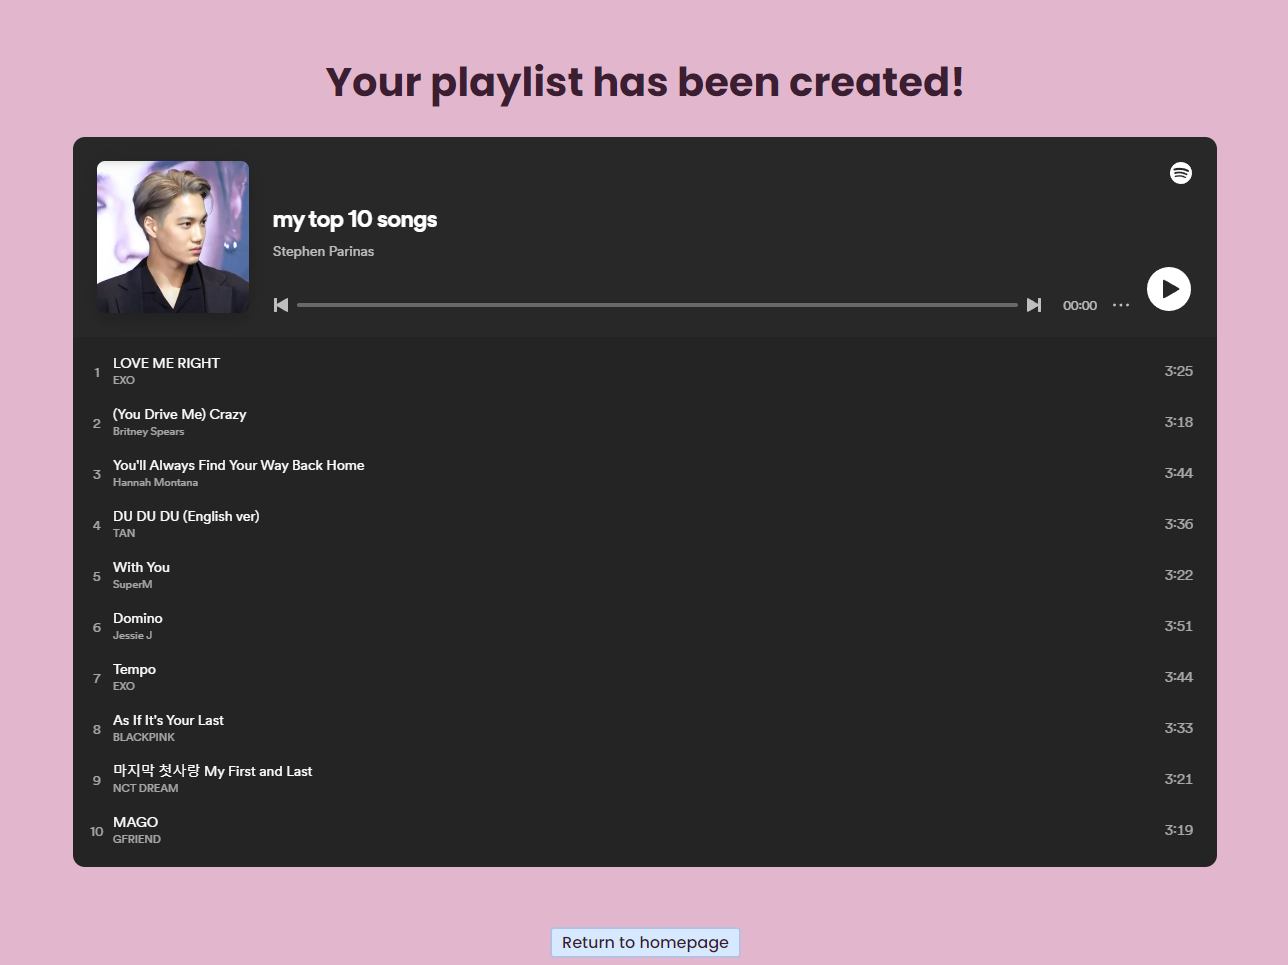
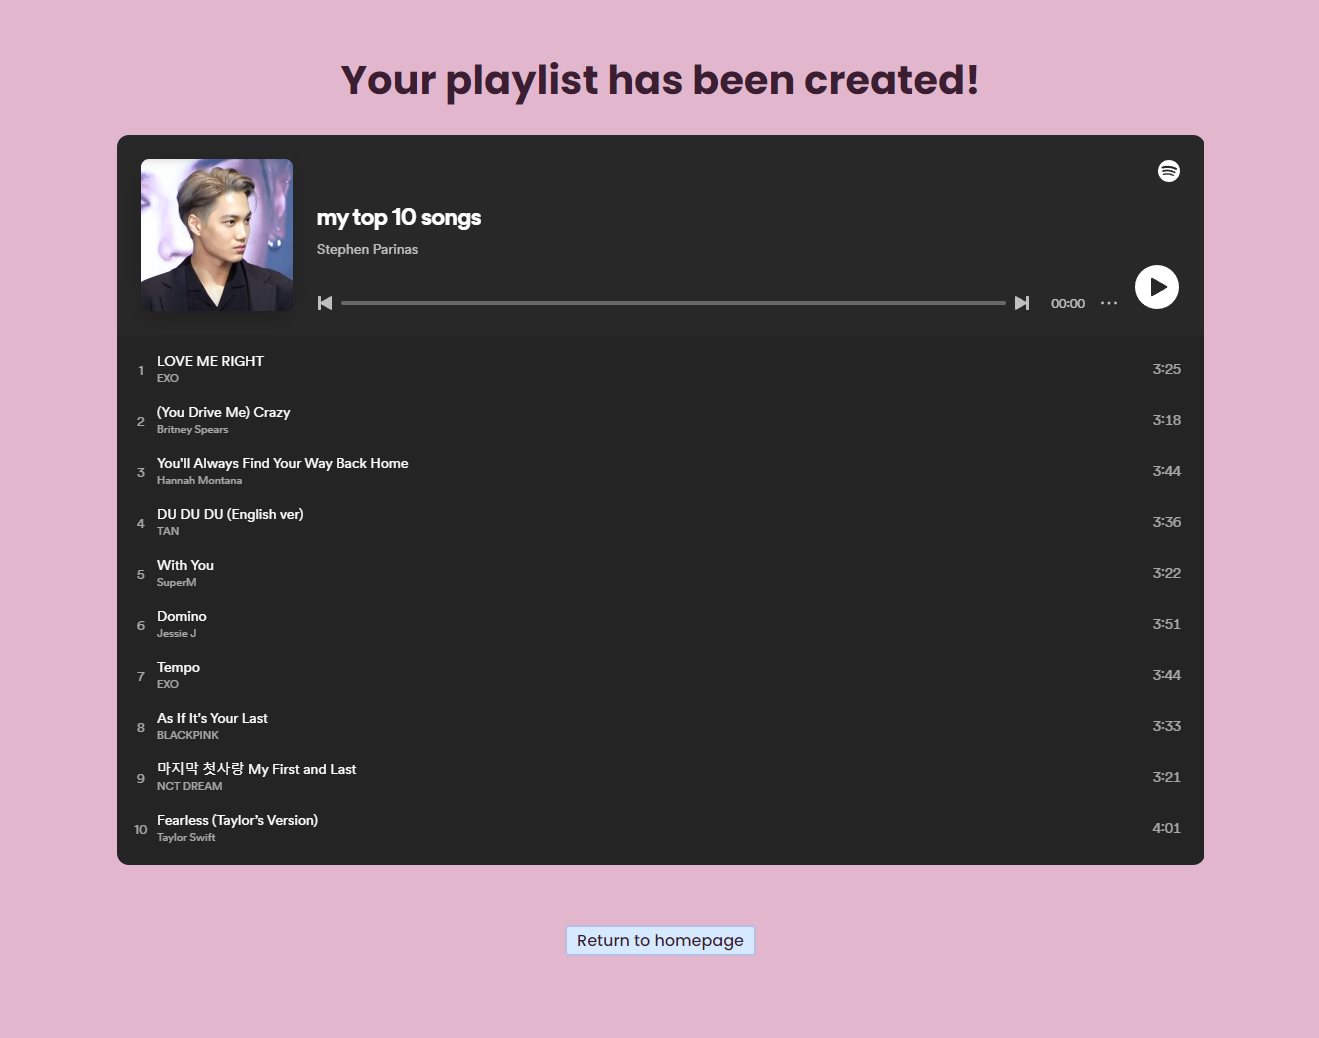
hi
edited display-results page to show album image rather than artist

Changed region(s): [[0.0311, 0.0622, 0.9627, 0.9326], [0.4037, 0.9637, 0.5901, 0.9948]]

diff --git a/app.py b/app.py
@@ -65,8 +65,8 @@ def get_data():
     global track_data
     track_data = get_top_tracks(user = username, period = time_period, limit = tracks)
     global song_uri
-    song_uri, artist_list = get_song_uri(track_data)
-    get_artist_image(artist_list, track_data)
+    song_uri, album_list = get_song_uri(track_data)
+    get_album_image(album_list, track_data)
     return redirect(url_for('results'))
 
 @app.route('/process-data')
@@ -159,7 +159,7 @@ def get_song_uri(track_data):
         "Authorization": f"Bearer { access_token }"
     }
     uri_list = []
-    artist_list = []
+    album_list = []
     for i in range(len(track_data)):
         item = track_data[i]
         # remove punctuation as spotify does not recognise it when searching
@@ -175,7 +175,7 @@ def get_song_uri(track_data):
         else:
             uri = r.json()['tracks']['items']
             if not uri:
-                artist_list.append({'id': ""})
+                album_list.append({'id': ""})
                 uri_list.append("")
             else:
                 # find matching song out of the top 3 results
@@ -186,26 +186,26 @@ def get_song_uri(track_data):
                 for i in range(top_results):
                     if len(item['track_name']) == len(uri[i]['name']):
                         uri_list.append(uri[i]['uri'])
-                        artist_list.append(uri[i]['artists'][0])
+                        album_list.append(uri[i]['album'])
                         break
                     elif i == 4:
                         uri_list.append(uri[0]['uri'])
-                        artist_list.append(uri[i]['artists'][0])
-    return uri_list, artist_list
+                        album_list.append(uri[i]['album'])
+    return uri_list, album_list
 
 
-# Returns the artist images to display with results
-def get_artist_image(artist_list, track_data):
+# Returns the album images to display with results
+def get_album_image(album_list, track_data):
     access_token = session.get('token_info').get('access_token')
     sp = spotipy.Spotify(auth=access_token)
     headers = {
         "Content-Type": "application/json",
         "Authorization": f"Bearer { access_token }"
     }
-    for i in range(len(artist_list)):
-        artist_id = artist_list[i]['id']
-        if artist_id != "":
-            url = f"https://api.spotify.com/v1/artists/{artist_id}"
+    for i in range(len(album_list)):
+        album_id = album_list[i]['id']
+        if album_id != "":
+            url = f"https://api.spotify.com/v1/albums/{album_id}"
             r = requests.get(url = url, headers = headers)
 
             if r.status_code != 200:

diff --git a/config.py b/config.py
@@ -13,4 +13,4 @@ LASTFM_API = os.environ.get('LASTFM_API')
 SPOTIFY_ID = os.environ.get('SPOTIFY_ID')
 SPOTIFY_SECRET = os.environ.get('SPOTIFY_SECRET')
 SPOTIFY_REDIRECT_URL = os.environ.get('SPOTIFY_REDIRECT_URL')
-SPOTIFY_USERNAME = "kfs3lqp4ixq8klhnmk8qh50sj"
+# SPOTIFY_USERNAME = "kfs3lqp4ixq8klhnmk8qh50sj"

diff --git a/README.md b/README.md
@@ -27,11 +27,11 @@ Run the following on terminal then click the link shown:
 <br>
 
 ## How it works:
-- When the application is first run, you will see this page where you will be prompted to login to your Spotify account 
+- When the application is first run, you will see this page where you will be prompted to login to and authenticate your Spotify account 
 <img src="/screenshots/spotify-login.png" alt= “spotify-login” width="700">
 <br>
 
-- Once you have logged in, you willsee the homepage where you will enter the details for the data to be extracted from last.fm.
+- Once you have logged in, you will see the homepage where you will enter the details for the data to be extracted from last.fm.
 <img src="/screenshots/homepage.png" alt= “homepage” width="700">
 <br>
 
